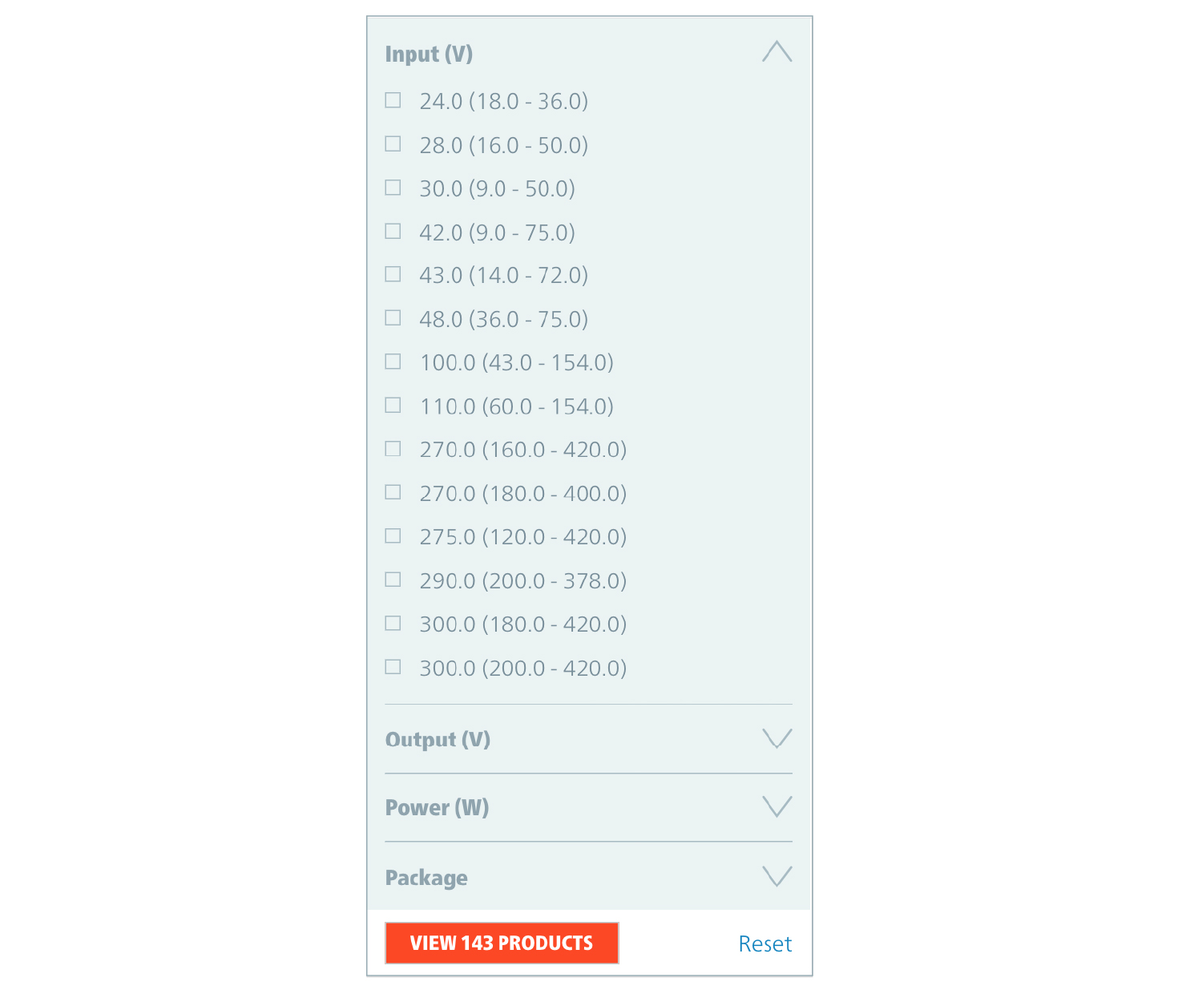
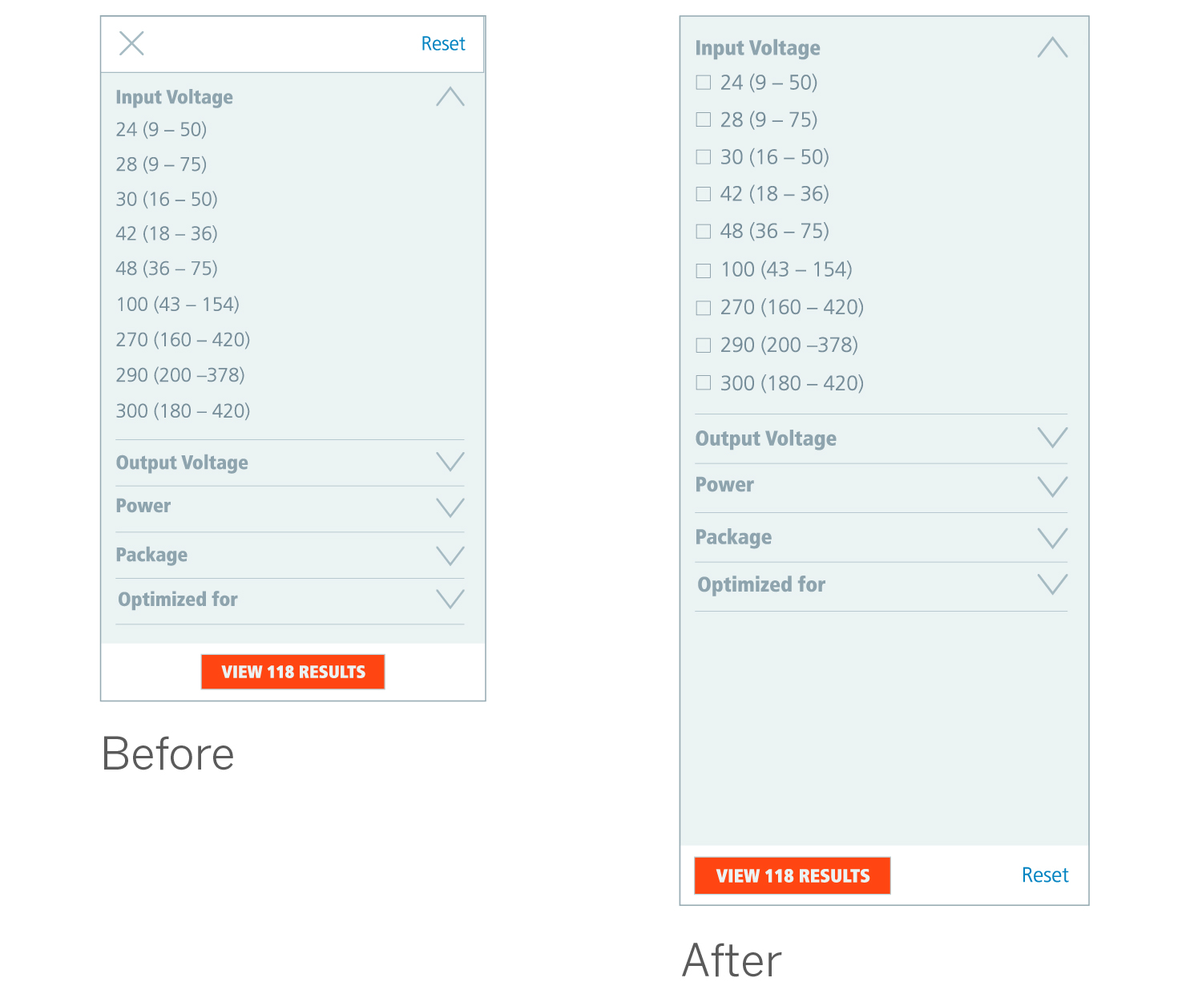
Updated with Lisa's feedback
Updated MS and Vicor filtering with Lisa's feedback. Added display pic for Shopping cart

diff --git a/project/vicor-filtering.html b/project/vicor-filtering.html
@@ -20,20 +20,20 @@
 
 	<!-- Page Info -->
 	<link rel="shortcut icon" href="/images/favicon.png">
-	<title>Vicor’s desktop and mobile product filtering – User Experience Design Portfolio of Sebastian Arteaga</title>
-	<meta name="title" content="Vicor’s desktop and mobile product filtering">
+	<title>Vicor’s Desktop and Mobile Product Filtering – User Experience Design Portfolio of Sebastian Arteaga</title>
+	<meta name="title" content="Vicor’s Desktop and Mobile Product Filtering">
 	<meta name="description" content="Vicor Corporation needed to transform their desktop product filtering to a mobile-ready experience without sacrificing functionality. This involved redesigning the unintuitive existing product filtering and envisioning an experience that would fit the size constraints of the mobile platform.">
 
 	<!-- Twitter Card -->
 	<meta name="twitter:card" content="summary_large_image">
 	<meta name="twitter:title"
-		content="Vicor’s desktop and mobile product filtering – User Experience Design Portfolio of Sebastian Arteaga">
+		content="Vicor’s Desktop and Mobile Product Filtering – User Experience Design Portfolio of Sebastian Arteaga">
 	<meta name="twitter:description" content="Vicor Corporation needed to transform their desktop product filtering to a mobile-ready experience without sacrificing functionality. This involved redesigning the unintuitive existing product filtering and envisioning an experience that would fit the size constraints of the mobile platform.">
 	<meta name="twitter:image:src" content="/vicor-filtering-featured.jpg">
 
 	<!-- Facebook OpenGraph -->
 	<meta property="og:title"
-		content="Vicor’s desktop and mobile product filtering – User Experience Design Portfolio of Sebastian Arteaga" />
+		content="Vicor’s Desktop and Mobile Product Filtering – User Experience Design Portfolio of Sebastian Arteaga" />
 	<meta property="og:description" content="Vicor Corporation needed to transform their desktop product filtering to a mobile-ready experience without sacrificing functionality. This involved redesigning the unintuitive existing product filtering and envisioning an experience that would fit the size constraints of the mobile platform." />
 	<meta property="og:image" content="/vicor-filtering-featured.jpg" />
 
@@ -143,7 +143,7 @@
 
 	<div class="page">
 		<div class="page__content"
-			data-page-title="Vicor’s desktop and mobile product filtering – User Experience Design Portfolio of Sebastian Arteaga">
+			data-page-title="Vicor’s Desktop and Mobile Product Filtering – User Experience Design Portfolio of Sebastian Arteaga">
 			
 			<section class="contact">
   <button class="button--close-modal"></button>
@@ -192,7 +192,7 @@
 	<header class="post__header">
 
 		<div class="wrap">
-			<h1 class="post__title">Vicor’s desktop and mobile product filtering</h1>
+			<h1 class="post__title">Vicor’s Desktop and Mobile Product Filtering</h1>
 			<h3 class="post__subtitle">The Challenge</h3>
 			<p class="post__subhead --small">Vicor Corporation needed to transform their desktop product filtering to a mobile-ready experience without sacrificing functionality. This involved redesigning the unintuitive existing product filtering and envisioning an experience that would fit the size constraints of the mobile platform.</p>
 			<h3 class="post__subtitle">My Role</h3>
@@ -209,17 +209,17 @@
 
 			<article class="post__content ">
 				<h2 id="research">Research</h2>
-<p>When I joined the design team the user research was already done. After reviewing the findings, I considered that there was something that was missing in them: How do electrical engineers use the Vicor filtering tool? I decided to do interviews with the electrical engineers working at Vicor. This brought clarity into our design process.</p>
+<p>When I joined the design team the user research was already done. After reviewing the findings, I realized a key audience was missing, the electrical engineers at Vicor also need to be able to use the filtering tool. I decided to do interviews with the electrical engineers working at Vicor. This brought clarity into our design process.</p>
 
 <h3 id="the-discovery">The Discovery</h3>
-<p>First, we dissected all the elements of the product filtering. Vicor designs, develops, manufactures and markets modular power converters, power system components and power systems. All of their parts can be filtered by their specs: input, output, current or power, and other specific to families of parts, like size or mounting.</p>
+<p>Vicor designs, develops, manufactures and markets modular power converters, power system components and power systems. First, we dissected all the elements of the product filtering. All of their parts can be filtered by their specs: input, output, current or power, and other specific to families of parts, like size or mounting.</p>
 
-<p>Second, we asked electrical engineers to tell us how they worked with the specs presented to them on screen. For example, input voltage is shown as Nominal (Range) or 24.0 (18.0 – 36.0), we wanted to know which of these three numbers were critical for their product discovery. <strong>We found that the range inside the parenthesis is key when using the filtering tool</strong>, because it shows clearly the voltage range needed for their electrical designs.</p>
+<p>Second, we asked electrical engineers to tell us how they worked with the specs presented to them on screen. For example, input voltage is shown as Nominal (Range) or 24.0 (18.0 – 36.0), we wanted to know which of these three numbers were critical for their product discovery. We found that the range inside the parenthesis is key when using the filtering tool, because it shows clearly the voltage range needed for their electrical designs.</p>
 
 <div class="image-wrap"><img src="/images/projects/vicor-input-list.jpg" alt="" /></div>
 
 <h3 id="understanding-the-user">Understanding the User</h3>
-<p>Insights from our discovery work indicated that there were multiple user groups to cater with the filtering tool.  First, the electrical engineers at Vicor used the filtering to quickly find a product and reach the product page for documentation. Second, the electrical engineers, outside Vicor, came to the website trying to find a product that fit their technical documentation. They were both ultimately looking to find a product but their process to get there was different. <strong>The outside engineer needed a way to easily scan the list of specs that would allow them to browse the Vicor products that met their requirements</strong>. And, <strong>the Vicor engineer needed a way to quickly choose the specs that allowed them to find the product they were looking for.</strong></p>
+<p>Insights from our discovery work indicated that there were multiple user groups to cater to with the filtering tool.  First, the electrical engineers at Vicor used the filtering to quickly find a product and reach the product page for documentation. Second, the electrical engineers, outside Vicor, came to the website trying to find a product that fit their technical documentation. They were both ultimately looking to find a product but their process to get there was different. <strong>The outside engineer needed a way to easily scan the list of specs that would allow them to browse the Vicor products that met their requirements</strong>. And, <strong>the Vicor engineer needed a way to quickly choose the specs that allowed them to find the product they were looking for.</strong></p>
 
 <p>&nbsp;</p>
 
@@ -228,11 +228,11 @@
 
 <h2>Design</h2>
 
-<p>We designed our first version of the filtering on desktop making sure that both needs were being solved. It had spaces to type in the ranges, a slider, and several other buttons for the rest of the filters. This design failed in two fronts. The first one, the sliders proved to be useless for the filtering since it showed the products inside the range instead of those that were outside of it, which is how engineers read ranges, if you need a range of 2 to 4, you want to see a product that has a range of 1 to 5.  And second, once all of these features were brought to the mobile phone the ability to quickly scan the information was lost.  So we went back to the drawing board and started designing the mobile-phone experience first.</p> 
+<p>We designed our first version of the filtering on desktop making sure that both needs were being solved. It had spaces to type in the ranges, a slider, and several other buttons for the rest of the filters. This design failed in two fronts. The first one, the sliders proved to be useless for the filtering since it showed the products inside the range instead of those that were outside of it, which is how engineers read ranges, if you need a range of 2 to 4, you want to see a product that has a range of 1 to 5.  And second, once all of these features were brought to the mobile phone the ability to quickly scan the information was lost.  So we went back to the drawing board and started designing the mobile experience first.</p> 
 
 <h3>From Lo-fi Prototype to Wireframe</h3>
 
-<p>To ideate quickly, we did some Lo-prototypes that allowed us to see what were the best possible ways in which we could move the mobile design into the right direction. In the end, we designed an overlay that covers the whole viewport, in which a list shows all the possible filters so the users can identify quickly which spec they need to filter by. Once opened, the list allows for a quick scan to identify possible matches to the user’s technical documentation.</p>
+<p>To ideate quickly, we did some lo-fi -prototypes. After a few iterations, we landed on a version of filtering that relied on an overlay for allowing users to quickly view and select relevant specs. Once opened, the list allows for a quick scan to identify possible matches to the user’s technical documentation or to efficiently find the part and get to the documentation.</p>
 
 <figure class="full-width"><img src="/images/projects/vicor-lo-fi-prototype.jpg" alt="" /></figure>
 
@@ -241,13 +241,13 @@
 <figure class="full-width"><img src="/images/projects/vicor-phone-wireframe.jpg" alt="" /></figure>
 
 
-<h3>Using The Design System</h3>
+<h3>Using the Design System</h3>
 
 <p>Vicor has a robust design system, designed by the creative director. This allowed us to create high-def prototypes quickly. Which we used for validation with Vicor engineers and sales representatives.</p>
 
 <div class="image-wrap"><img src="/images/projects/vicor-design-system-elements.jpg" alt="" /></div>
 
-<p>Using the findings from the hi-def prototype validation, I added signifiers to let the user easily understand that more than one spec can be added to the filter. I also removed the top bar and moved the reset button to the lower bar. This allows for a quick reset when the user arrives to the filtering screen.</p>
+<p>Using the findings from the hi-def prototype validation, I added signifiers to let the user easily understand that more than one spec can be added to the filter. I also removed the top bar and moved the reset button to the lower bar. This allows for a quick reset when the user arrives at the filtering screen.</p>
 
 <div class="image-wrap"><img src="/images/projects/vicor-hi-def-filtering.jpg" alt="" /></div>
 

diff --git a/project/vicor-shopping-cart.html b/project/vicor-shopping-cart.html
@@ -20,22 +20,22 @@
 
 	<!-- Page Info -->
 	<link rel="shortcut icon" href="/images/favicon.png">
-	<title>Vicor’s shopping cart – User Experience Design Portfolio of Sebastian Arteaga</title>
-	<meta name="title" content="Vicor’s shopping cart">
-	<meta name="description" content="Vicor Corporation needed to redesign their B2B shopping cart to make it more intuitive and  mobile-ready. This involved rethinking the current complex shopping cart and helping Vicor’s buyers a swift and efficient buying experience.">
+	<title>Vicor’s Shopping Cart – User Experience Design Portfolio of Sebastian Arteaga</title>
+	<meta name="title" content="Vicor’s Shopping Cart">
+	<meta name="description" content="Vicor Corporation needed to redesign their B2B shopping cart to make it more intuitive and mobile-ready. This involved rethinking the current complex shopping cart and helping Vicor’s buyers a swift and efficient buying experience.">
 
 	<!-- Twitter Card -->
 	<meta name="twitter:card" content="summary_large_image">
 	<meta name="twitter:title"
-		content="Vicor’s shopping cart – User Experience Design Portfolio of Sebastian Arteaga">
-	<meta name="twitter:description" content="Vicor Corporation needed to redesign their B2B shopping cart to make it more intuitive and  mobile-ready. This involved rethinking the current complex shopping cart and helping Vicor’s buyers a swift and efficient buying experience.">
-	<meta name="twitter:image:src" content="/vicor-filtering-featured.jpg">
+		content="Vicor’s Shopping Cart – User Experience Design Portfolio of Sebastian Arteaga">
+	<meta name="twitter:description" content="Vicor Corporation needed to redesign their B2B shopping cart to make it more intuitive and mobile-ready. This involved rethinking the current complex shopping cart and helping Vicor’s buyers a swift and efficient buying experience.">
+	<meta name="twitter:image:src" content="/vicor-shopping-cart-display.jpg">
 
 	<!-- Facebook OpenGraph -->
 	<meta property="og:title"
-		content="Vicor’s shopping cart – User Experience Design Portfolio of Sebastian Arteaga" />
-	<meta property="og:description" content="Vicor Corporation needed to redesign their B2B shopping cart to make it more intuitive and  mobile-ready. This involved rethinking the current complex shopping cart and helping Vicor’s buyers a swift and efficient buying experience." />
-	<meta property="og:image" content="/vicor-filtering-featured.jpg" />
+		content="Vicor’s Shopping Cart – User Experience Design Portfolio of Sebastian Arteaga" />
+	<meta property="og:description" content="Vicor Corporation needed to redesign their B2B shopping cart to make it more intuitive and mobile-ready. This involved rethinking the current complex shopping cart and helping Vicor’s buyers a swift and efficient buying experience." />
+	<meta property="og:image" content="/vicor-shopping-cart-display.jpg" />
 
 	
 	<!-- Font Embed Code -->
@@ -143,7 +143,7 @@
 
 	<div class="page">
 		<div class="page__content"
-			data-page-title="Vicor’s shopping cart – User Experience Design Portfolio of Sebastian Arteaga">
+			data-page-title="Vicor’s Shopping Cart – User Experience Design Portfolio of Sebastian Arteaga">
 			
 			<section class="contact">
   <button class="button--close-modal"></button>
@@ -192,13 +192,13 @@
 	<header class="post__header">
 
 		<div class="wrap">
-			<h1 class="post__title">Vicor’s shopping cart</h1>
+			<h1 class="post__title">Vicor’s Shopping Cart</h1>
 			<h3 class="post__subtitle">The Challenge</h3>
 			<p class="post__subhead --small">Vicor Corporation needed to transform their desktop product filtering to a mobile-ready experience without sacrificing functionality. This involved redesigning the unintuitive existing product filtering and envisioning an experience that would fit the size constraints of the mobile platform.</p>
 			<h3 class="post__subtitle">My Role</h3>
             <p class="post__subhead --small"><strong>Disclaimer:</strong> This project is part of a larger B2B e-com redesign currently happening at Vicor. Some details have been edited to comply with Vicor’s N.D.A. policy.<br /><br />I am leading the user research and participating in the design process of the shopping cart. The shopping cart stage of the project started in January, 2020. I am collaborating in this project with the Creative director and the Sr. UX/UI designer at Vicor.</p>
 		</div>
-		<img src="/images/projects/vicor-filtering-featured.jpg" class="post__featured-image">
+		<img src="/images/projects/vicor-shopping-cart-display.jpg" class="post__featured-image">
 
 	</header>
 
@@ -209,62 +209,6 @@
 
 			<article class="post__content ">
 				<h2 id="research">Research</h2>
-<p>When I joined the design team the user research was already done. After reviewing the findings, I considered that there was something that was missing in them: How do electrical engineers use the Vicor filtering tool? I decided to do interviews with the electrical engineers working at Vicor. This brought clarity into our design process.</p>
-
-<h3 id="the-discovery">The Discovery</h3>
-<p>First, we dissected all the elements of the product filtering. Vicor designs, develops, manufactures and markets modular power converters, power system components and power systems. All of their parts can be filtered by their specs: input, output, current or power, and other specific to families of parts, like size or mounting.</p>
-
-<p>Second, we asked electrical engineers to tell us how they worked with the specs presented to them on screen. For example, input voltage is shown as Nominal (Range) or 24.0 (18.0 – 36.0), we wanted to know which of these three numbers were critical for their product discovery. <strong>We found that the range inside the parenthesis is key when using the filtering tool</strong>, because it shows clearly the voltage range needed for their electrical designs.</p>
-
-<div class="image-wrap"><img src="/images/projects/vicor-input-list.jpg" alt="" /></div>
-
-<h3 id="understanding-the-user">Understanding the User</h3>
-<p>Insights from our discovery work indicated that there were multiple user groups to cater with the filtering tool.  First, the electrical engineers at Vicor used the filtering to quickly find a product and reach the product page for documentation. Second, the electrical engineers, outside Vicor, came to the website trying to find a product that fit their technical documentation. They were both ultimately looking to find a product but their process to get there was different. <strong>The outside engineer needed a way to easily scan the list of specs that would allow them to browse the Vicor products that met their requirements</strong>. And, <strong>the Vicor engineer needed a way to quickly choose the specs that allowed them to find the product they were looking for.</strong></p>
-
-<p>&nbsp;</p>
-
-<section class=" full-width" style="background: white">
-<div class="post__content__inside">
-
-<h2>Design</h2>
-
-<p>We designed our first version of the filtering on desktop making sure that both needs were being solved. It had spaces to type in the ranges, a slider, and several other buttons for the rest of the filters. This design failed in two fronts. The first one, the sliders proved to be useless for the filtering since it showed the products inside the range instead of those that were outside of it, which is how engineers read ranges, if you need a range of 2 to 4, you want to see a product that has a range of 1 to 5.  And second, once all of these features were brought to the mobile phone the ability to quickly scan the information was lost.  So we went back to the drawing board and started designing the mobile-phone experience first.</p> 
-
-<h3>From Lo-fi Prototype to Wireframe</h3>
-
-<p>To ideate quickly, we did some Lo-prototypes that allowed us to see what were the best possible ways in which we could move the mobile design into the right direction. In the end, we designed an overlay that covers the whole viewport, in which a list shows all the possible filters so the users can identify quickly which spec they need to filter by. Once opened, the list allows for a quick scan to identify possible matches to the user’s technical documentation.</p>
-
-<figure class="full-width"><img src="/images/projects/vicor-lo-fi-prototype.jpg" alt="" /></figure>
-
-<p>Based on our initial feedback from the mobile lo-fi prototype, I made some changes to the mobile design. I placed the results button at the bottom of the viewport instead of the top for two reasons. First, the user makes selections from top to bottom so it made sense to show the results button on that path. Second, the user’s thumbs would be closer to the lower third of the viewport, where the button is now located.</p> 
-
-<figure class="full-width"><img src="/images/projects/vicor-phone-wireframe.jpg" alt="" /></figure>
-
-
-<h3>Using The Design System</h3>
-
-<p>Vicor has a robust design system, designed by the creative director. This allowed us to create high-def prototypes quickly. Which we used for validation with Vicor engineers and sales representatives.</p>
-
-<div class="image-wrap"><img src="/images/projects/vicor-design-system-elements.jpg" alt="" /></div>
-
-<p>Using the findings from the hi-def prototype validation, I added signifiers to let the user easily understand that more than one spec can be added to the filter. I also removed the top bar and moved the reset button to the lower bar. This allows for a quick reset when the user arrives to the filtering screen.</p>
-
-<div class="image-wrap"><img src="/images/projects/vicor-hi-def-filtering.jpg" alt="" /></div>
-
-</div>
-</section>
-
-<h2 id="final-design">Final Design</h2>
-
-<p>Vicor’s mobile filtering experience is now an intuitive and efficient tool for both inside and outside of Vicor electrical engineers. It displays a list of specs of all available products — a goal of the product &amp; sales department — and permits a top to bottom quick scan for the specs that engineers might be looking for.</p>
-
-<div class="image-wrap">
-<video src="/images/projects/vicor-filtering-mobile-final.mp4" alt="" class="mobile" loop="loop" muted="muted" autoplay="autoplay" playsinline=""></video></div>
-
-<p>The desktop design was kept very simple for users. We continued with the idea to clearly display the chosen specs with tags that can be easily deleted.</p>
-
-<div class="image-wrap">
-<video src="/images/projects/vicor-filtering-desktop-final.mp4" alt="" class="desktop" loop="loop" muted="muted" autoplay="autoplay" playsinline=""></video></div>
 
 			</article>
 			

diff --git a/project/microsoft.html b/project/microsoft.html
@@ -194,7 +194,7 @@
 		<div class="wrap">
 			<h1 class="post__title">The Garage at Microsoft Internship</h1>
 			<h3 class="post__subtitle">The Challenge</h3>
-			<p class="post__subhead --small">In span of 4 months we were untrusted to design a device to track and control an Iced-coffee keg and deliver a working prototype. The ice-coffee could only be accessible to employees that worked on the floor where the keg was located.</p>
+			<p class="post__subhead --small">In a span of 4 months we were untrusted to design a device to track and control an Iced-coffee keg and deliver a working prototype. The ice-coffee could only be accessible to employees that worked on the floor where the keg was located.</p>
 			<h3 class="post__subtitle">My Role</h3>
             <p class="post__subhead --small">I designed the interaction between the hardware and the user and the UI experience, owned the user research and served as product manager. A working prototype was delivered at the end of the internship.</p>
 		</div>
@@ -210,15 +210,15 @@
 			<article class="post__content ">
 				<h2 id="research">Research</h2>
 
-<p>The research was divided in two fronts, first, competitive research, what are other apps doing with kegs?, what kind of information were presented to the users on the screen?. And second, observation research, we observed people using the current Iced-coffee-keg.</p>
+<p>The research was divided in two fronts: Competitive (other apps for kegs and their on-screen experience) and observational (observing people using the current iced-coffee keg).</p>
 
-<p>We discovered an andriod app that tracked the level of beer kegs. The user interface used lists and icons to show the different keg levels and types of beer. We found many others that did a variation of the tracking. We coulnd’t find an app that could do everything we were looking to do: track the level of liquid in the kegs, controlling the flow, and keep a record of the consumer visits.</p>
+<p>In our competitive research, we discovered an Andriod app that tracked the level of beer kegs. The user interface used lists and icons to show the different keg levels and types of beer. We found many others that did a variation of the tracking. We couldn’t find an app that could do everything we were looking to do: track the level of liquid in the kegs, control the flow, and keep a record of consumer visits.</p>
 
 <blockquote>
   <p>We found that, depending on the cup size, the users took between 5-7 seconds to fill a cup of iced coffee.</p>
 </blockquote>
 
-<p>We then moved on to observe the people who were using the iced-coffee-keg. The keg was not restricted during an observation, so anyone could walk up to the keg and get some cold brew coffee. We found that, depending on the cup size, the users took between 5-7 seconds to fill a cup of iced coffee. There was also varitation with how hard the user would pull the lever and the amount of gas pushing the liquid up. We also found that some users, wanted to ‘top-off’ their cups, adding between 1-3 seconds to the initial count.</p>
+<p>In our observational research, we found that the keg was not restricted, so anyone could walk up to the keg and get some cold brew coffee. We found that, depending on the cup size, the users took between 5-7 seconds to fill a cup of iced coffee. There was also variation with how hard the user would pull the lever and the amount of gas pushing the liquid up. We also found that some users wanted to ‘top-off’ their cups, adding between 1-3 seconds to the initial count.</p>
 
 <p>&nbsp;</p>
 
@@ -227,27 +227,27 @@
 
 <h2>Design</h2>
 
-<p>Knowing the user behavior, provided me with the opportunity to understand how the device will interact with user. I envisioned an experience that would feel seamless to the user, almost as if the controlling device was not there. The device would use a ball valve to control the flow of the liquid, an RFID reader to track the users, and a data base to store the different visits to the coffee keg.</p> 
+<p>Knowing the user behavior, provided me with the opportunity to understand how the device will interact with users. I envisioned an experience that would feel seamless to the user, almost as if the controlling device was not there. The device would use a ball valve to control the flow of the liquid, an RFID reader to track the users, and a database to store the different visits to the coffee keg.</p> 
 
 <h3>One screen to tie it all up</h3>
 
-<p>The user interaction with the device will have to touch points. One, when the user taps their RFID card, and two, when the pull the lever. Between those two touch points we decided to add a screen to give visual feedback to the user. The screen also gave us the opportunity to inform the user of the type of coffee being served as well as the level left in the keg</p>
+<p>The user interaction with the device will have to touch points. One, when the user taps their RFID card, and two, when they pull the lever. Between those two touch points we decided to add a screen to give visual feedback to the user. The screen also gave us the opportunity to inform the user of the type of coffee being served as well as the level left in the keg.</p>
 
-<p>Our goal was to design an experince on the screen with as few steps as possible, so the device would be ready to use almost instantly between each visit to the keg. Once the ID tag is tapped on the RFID reader, access is granted or denied and you can get your coffee.</p>
+<p>Our goal was to design an experience on the screen with as few steps as possible, so the device would be ready to use almost instantly between each visit to the keg. Once the ID tag is tapped on the RFID reader, access is granted or denied and you can get your coffee.</p>
 
 
 <div class="image-wrap"><img src="/images/projects/micrsoft-flow.jpg" alt="" /></div>
 
 
 
-<p>The welcome screen displays the type of coffee that is currently in the keg and an invitation to the user to ‘please tap badge’. Once granted access, it displays the name of the user and a timer. This timer has two uses, the first one, it will inform the user that the app and device are running — that has not crashed. The second one, it shows that in a certain amount of time the device will lock again, and no more coffee will flow from the keg.</p> 
+<p>The welcome screen displays the type of coffee that is currently in the keg and an invitation to the user to ‘please tap badge’. Once granted access, it displays the name of the user and a timer. This timer has two uses,  first, it will inform the user that the app and device are running — that has not crashed.  Second, it shows that in a certain amount of time the device will lock again, and no more coffee will flow from the keg.</p> 
 
 <div class="image-wrap"><img src="/images/projects/lowresmockupms.jpg" alt="" /></div>
 
 
-<h3>Prof of concept</h3>
+<h3>Proof of concept</h3>
 
-<p>For the hi-def prof of concept I followed Microsft's design system. Using their colors and typography. But, I also had a little fun with the keg illustration that displays the level of coffee in the keg.</p>
+<p>For the hi-def proof of concept I followed Microsoft's design system, using their colors and typography. But, I also had a little fun with the keg illustration that displays the level of coffee in the keg.</p>
 
 <figure class="full-width"><img src="/images/projects/highresmockupms.jpg" alt="" /></figure>
 
@@ -260,7 +260,7 @@
 
 <h2 id="the-delivered-prototype">The Delivered Prototype</h2>
 
-<p>We delivered a working prototype that controlled and tracked the flow of liquid. It did so, by opening and closing a ball valve, to control the flow. Recieving information from an RFID reader. All of the above was possible with Raspberry Pi running Windows IOT.</p>
+<p>We delivered a working prototype that controlled and tracked the flow of liquid. It did so, by opening and closing a ball valve, to control the flow. Receiving information from an RFID reader. All of the above was possible with Raspberry Pi running Windows IOT.</p>
 
 <div class="image-wrap">
 <video src="/images/projects/the-garage-tag.mov" alt="" class="desktop" loop="loop" muted="muted" autoplay="autoplay" playsinline=""></video></div>

diff --git a/index.html b/index.html
@@ -214,15 +214,15 @@
 
 					<div class="project__image" style="--accent: #0089F2">
 						
-						<a href="/project/vicor-shopping-cart"><img src="/images/projects/vicor-filtering-featured.jpg" alt="" class="project__image"></a>
+						<a href="/project/vicor-shopping-cart"><img src="/images/projects/vicor-shopping-cart-display.jpg" alt="" class="project__image"></a>
 						
 					</div>
 
 					<div class="project__content grid" style="border-color: #0089F2">
-						<h2 class="project__title">Vicor’s shopping cart</h2>
+						<h2 class="project__title">Vicor’s Shopping Cart</h2>
 						
 						<p class="project__description --small">
-							Vicor Corporation needed to redesign their B2B shopping cart to make it more intuitive and  mobile-ready. This involved rethinking the current complex shopping cart and helping Vicor’s buyers a swift and efficient buying experience.
+							Vicor Corporation needed to redesign their B2B shopping cart to make it more intuitive and mobile-ready. This involved rethinking the current complex shopping cart and helping Vicor’s buyers a swift and efficient buying experience.
 							<a href="/project/vicor-shopping-cart" class="project__link button--text --right"
 								>View Case Study</a>
 						</p>
@@ -243,7 +243,7 @@
 					</div>
 
 					<div class="project__content grid" style="border-color: #0089F2">
-						<h2 class="project__title">Vicor’s desktop and mobile product filtering</h2>
+						<h2 class="project__title">Vicor’s Desktop and Mobile Product Filtering</h2>
 						
 						<p class="project__description --small">
 							Vicor Corporation needed to transform their desktop product filtering to a mobile-ready experience without sacrificing functionality. This involved redesigning the unintuitive existing product filtering and envisioning an experience that would fit the size constraints of the mobile platform.
